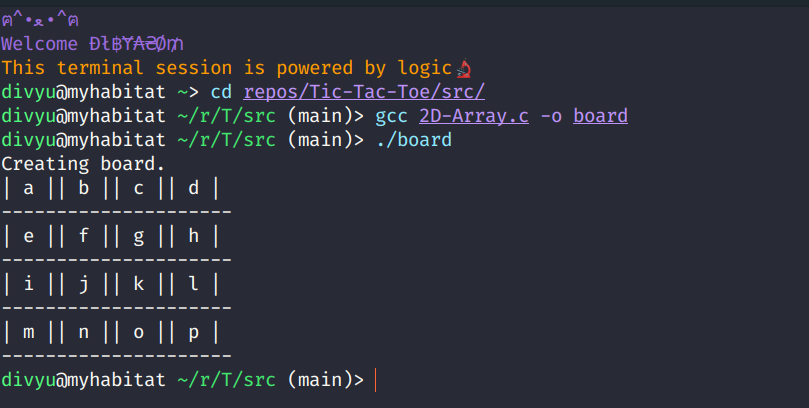
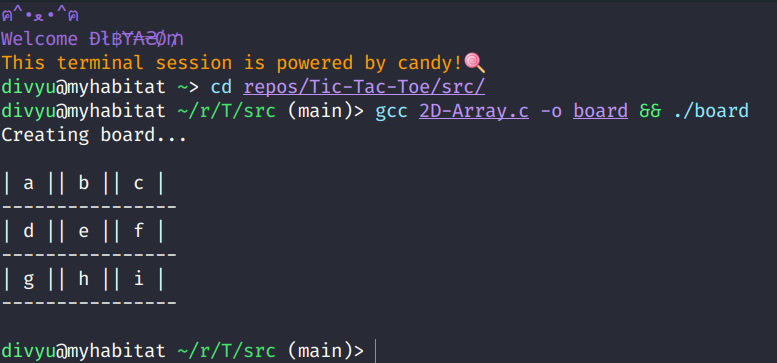
Board documented,

Changed region(s): [[0.0, 0.0, 0.9575, 0.8788], [0.0, 0.9091, 0.4942, 1.0]]

diff --git a/src/2D-Array.c b/src/2D-Array.c
@@ -34,12 +34,13 @@ void displayBoard(char** board, int boardSize){
             printf("-");
         printf("\n");
     }
+    printf("\n");
 }
 
 int main(void){
 
-    int boardSize = 4;
-    printf("Creating board.\n");/**/
+    int boardSize = 3;
+    printf("Creating board...\n\n");/**/
     char** board = createBoard(boardSize);
 
     labelBoard(board, boardSize);

diff --git a/README.md b/README.md
@@ -95,7 +95,7 @@ Having our array declared isn't enough right, let's put some user-friendly notat
 | **1**           | D   | E   | F   |
 | **2**           | G   | H   | I   |
 
-Now the user can just drop a character to refer to any specific shell, easy-peasy?<br>Here's the code to do that.
+Now the user can just drop a character to refer to any specific cell, easy-peasy?<br>Here's the code to do that.
 
 ```C
 void labelBoard(char** board, int boardSize){
@@ -129,7 +129,7 @@ void displayBoard(char** board, int boardSize){
 }
 ```
 
-Having done that, we jusr figured out 30% of the project, Kudos!
+Having done that, we just figured out 30% of the project, Kudos!
 
 > Output of these functions combined.
 > ![Output img, reload to refresh.](./Resources/board.png)
